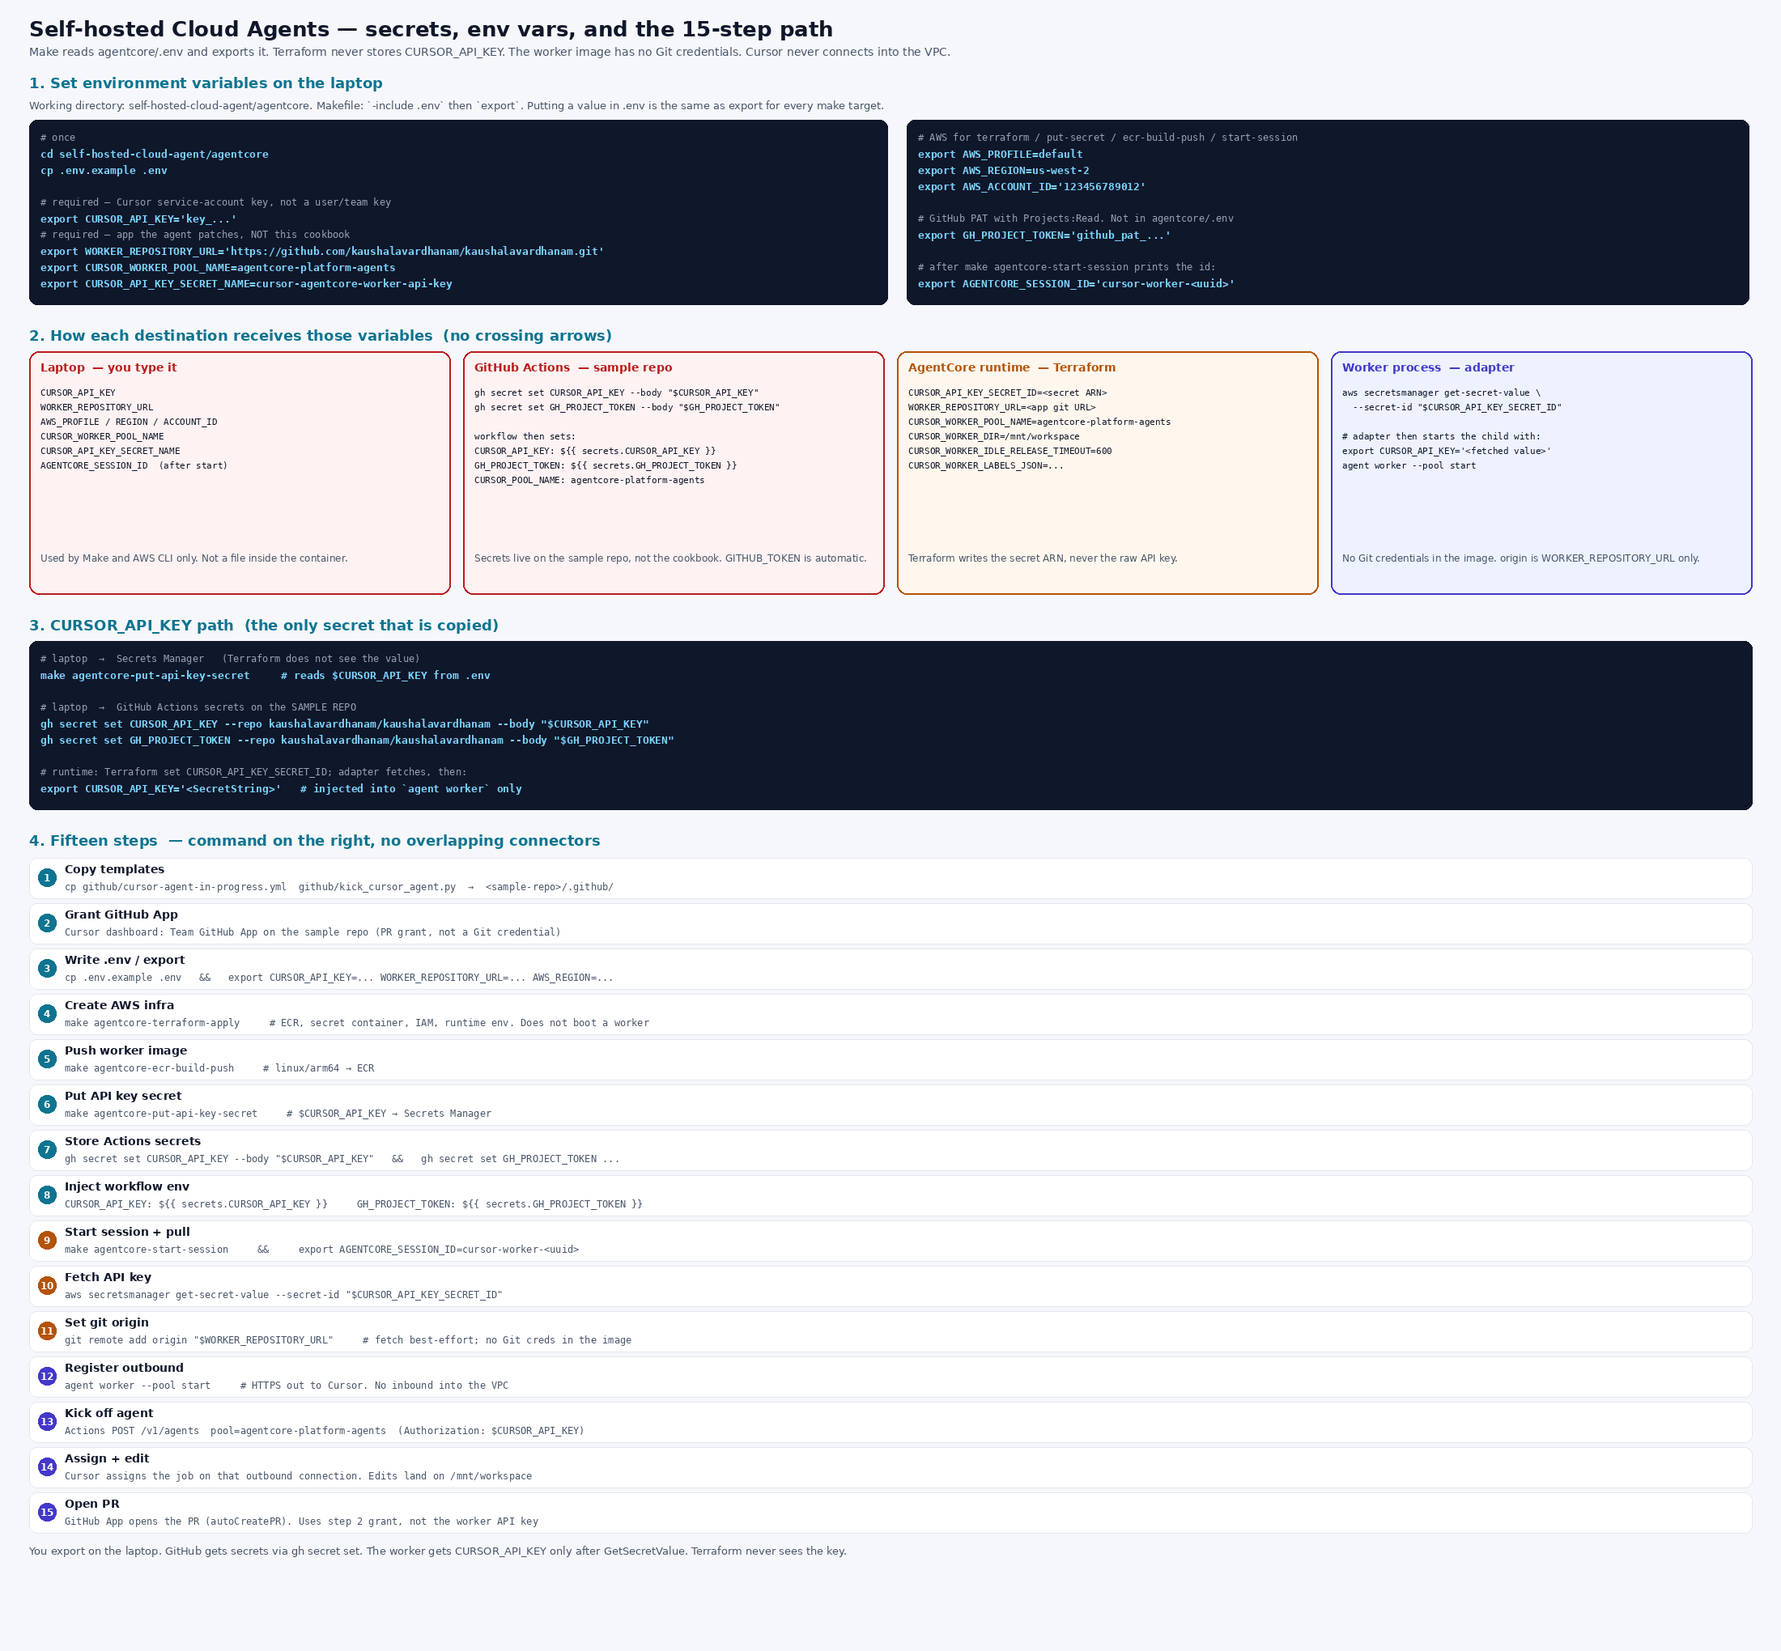
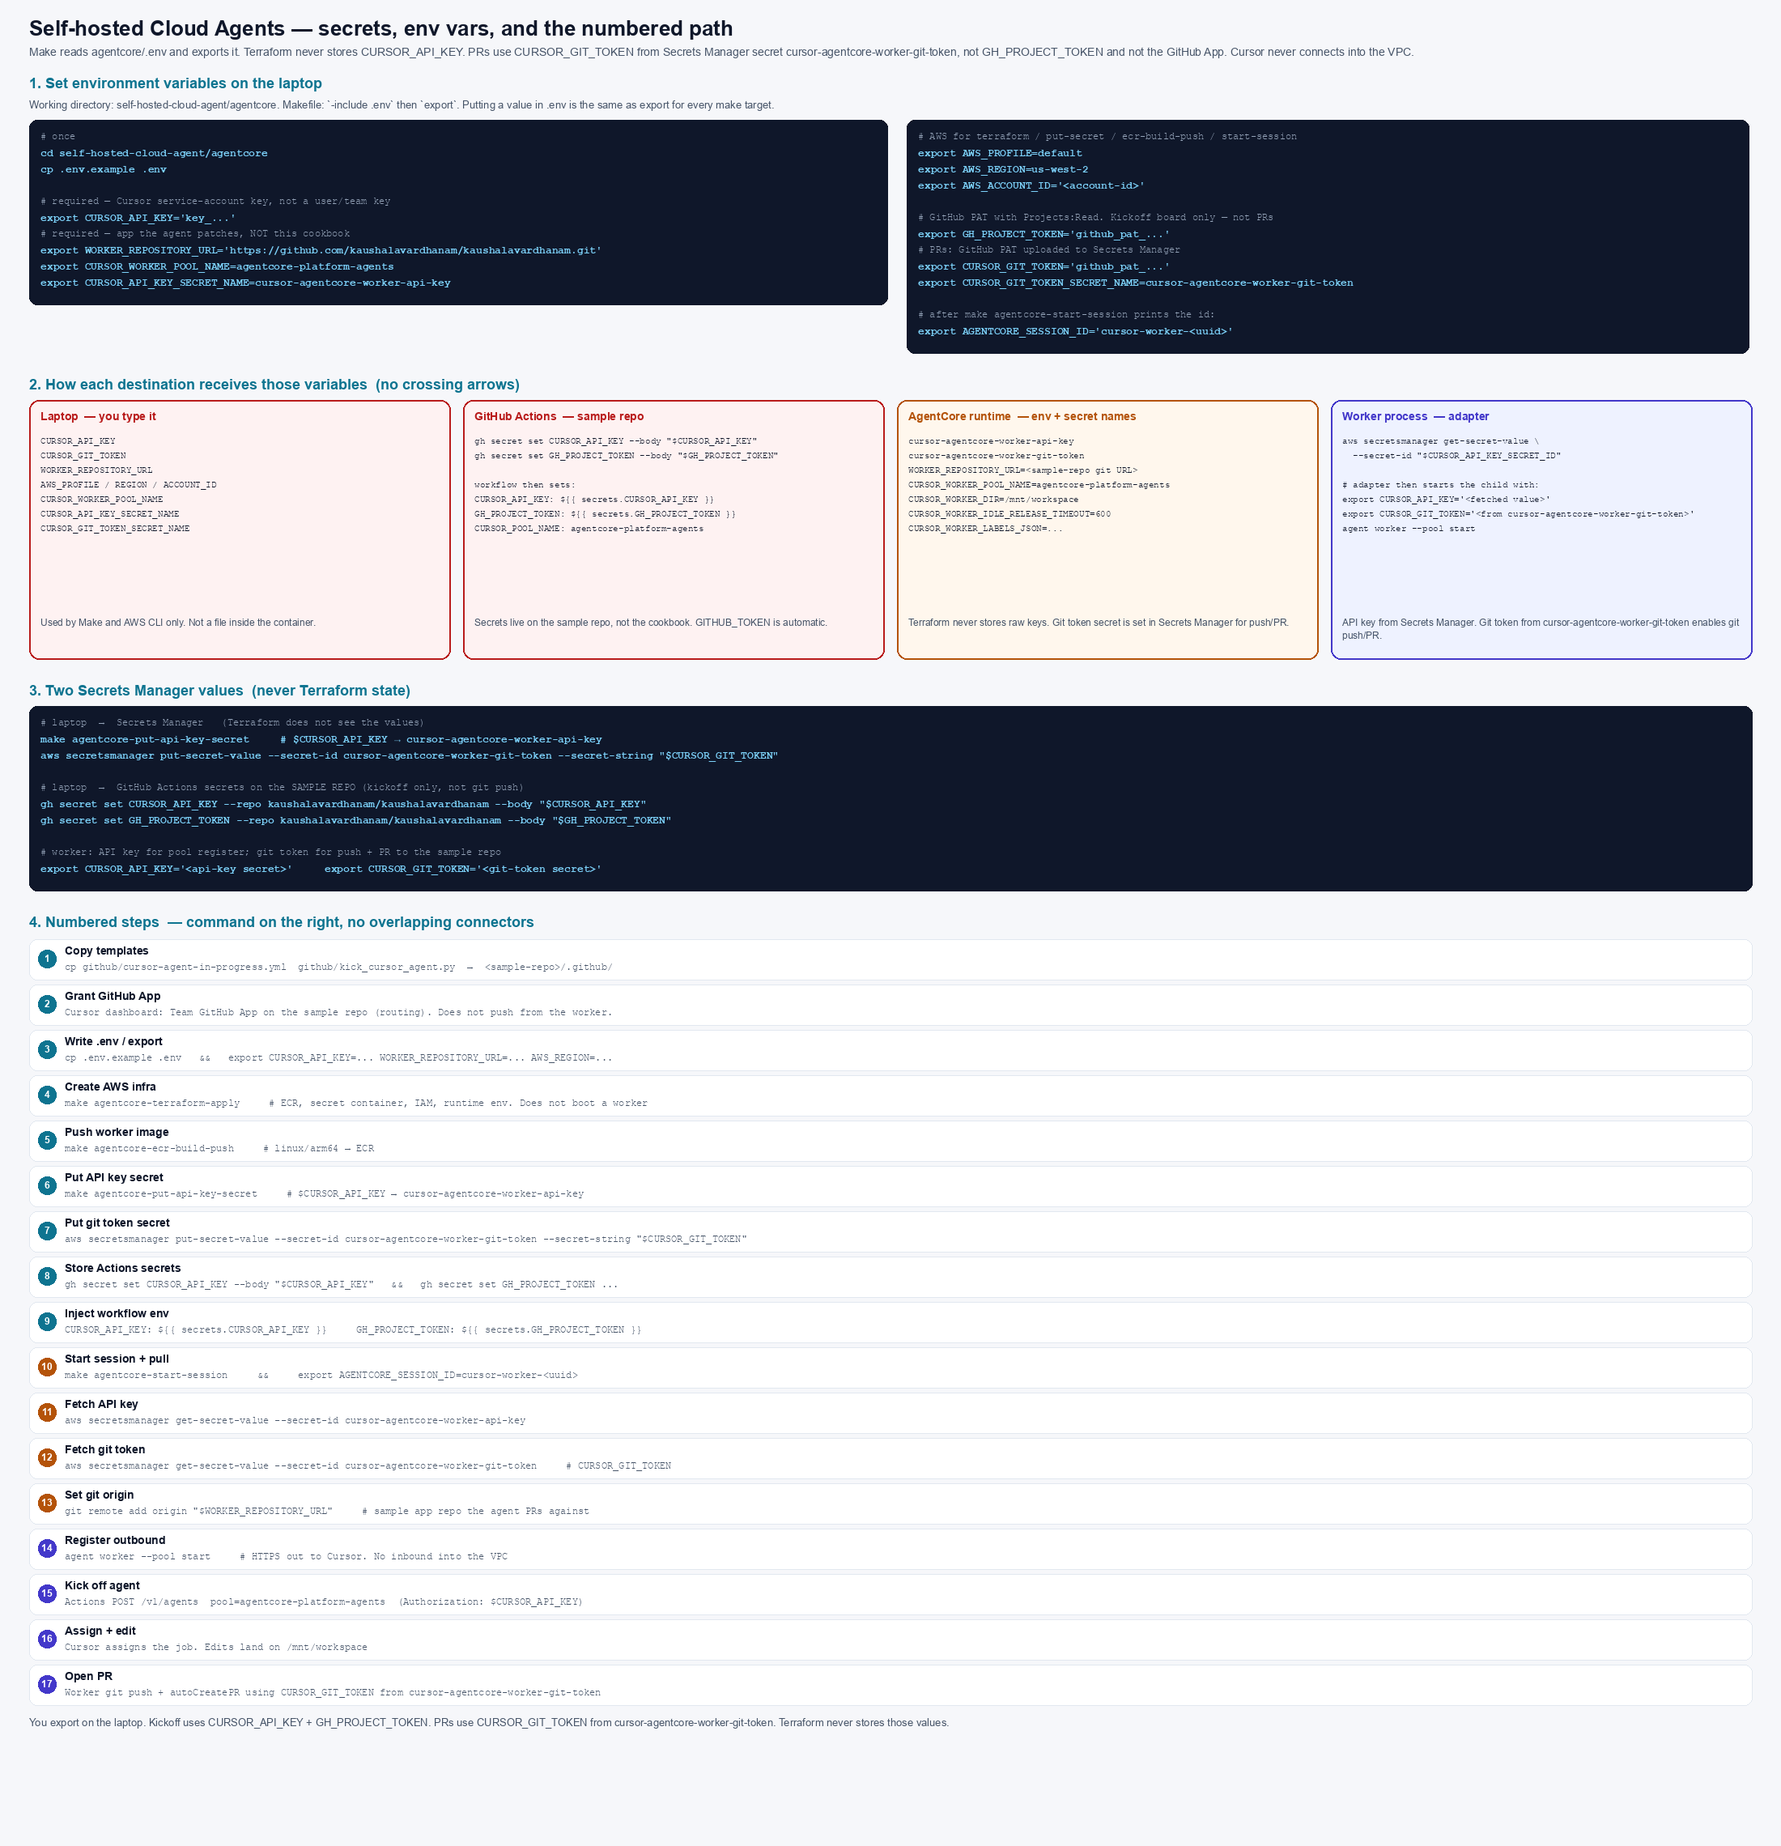
Updated diagrams to include cursor git token

Changed region(s): [[0.0, 0.3397, 0.9891, 0.9574], [0.0, 0.0, 0.9891, 0.3088]]

diff --git a/self-hosted-cloud-agent/agentcore/diagrams/render_secrets_and_flow.py b/self-hosted-cloud-agent/agentcore/diagrams/render_secrets_and_flow.py
@@ -8,7 +8,7 @@ from pathlib import Path
 from PIL import Image, ImageDraw, ImageFont
 
 OUT = Path(__file__).with_name("secrets-and-flow.png")
-W, H = 2200, 2040
+W, H = 2200, 2280
 BG = (246, 247, 250)
 INK = (15, 23, 42)
 MUTED = (71, 85, 105)
@@ -25,6 +25,11 @@ FONT = "/usr/share/fonts/truetype/dejavu/DejaVuSans.ttf"
 FONT_B = "/usr/share/fonts/truetype/dejavu/DejaVuSans-Bold.ttf"
 MONO = "/usr/share/fonts/truetype/dejavu/DejaVuSansMono.ttf"
 MONO_B = "/usr/share/fonts/truetype/dejavu/DejaVuSansMono-Bold.ttf"
+if not Path(FONT).exists():
+    FONT = "/System/Library/Fonts/Supplemental/Arial.ttf"
+    FONT_B = "/System/Library/Fonts/Supplemental/Arial Bold.ttf"
+    MONO = "/System/Library/Fonts/Supplemental/Courier New.ttf"
+    MONO_B = "/System/Library/Fonts/Supplemental/Courier New Bold.ttf"
 M = 36
 
 
@@ -88,10 +93,10 @@ def main() -> None:
     img = Image.new("RGB", (W, H), BG)
     d = ImageDraw.Draw(img)
 
-    d.text((M, 20), "Self-hosted Cloud Agents — secrets, env vars, and the 15-step path", font=fnt(26, True), fill=INK)
+    d.text((M, 20), "Self-hosted Cloud Agents — secrets, env vars, and the numbered path", font=fnt(26, True), fill=INK)
     d.text(
         (M, 56),
-        "Make reads agentcore/.env and exports it. Terraform never stores CURSOR_API_KEY. The worker image has no Git credentials. Cursor never connects into the VPC.",
+        "Make reads agentcore/.env and exports it. Terraform never stores CURSOR_API_KEY. PRs use CURSOR_GIT_TOKEN from Secrets Manager secret cursor-agentcore-worker-git-token, not GH_PROJECT_TOKEN and not the GitHub App. Cursor never connects into the VPC.",
         font=fnt(14),
         fill=MUTED,
     )
@@ -135,10 +140,13 @@ def main() -> None:
             ("cmt", "# AWS for terraform / put-secret / ecr-build-push / start-session"),
             ("cmd", "export AWS_PROFILE=default"),
             ("cmd", "export AWS_REGION=us-west-2"),
-            ("cmd", "export AWS_ACCOUNT_ID='123456789012'"),
+            ("cmd", "export AWS_ACCOUNT_ID='<account-id>'"),
             ("blank", ""),
-            ("cmt", "# GitHub PAT with Projects:Read. Not in agentcore/.env"),
+            ("cmt", "# GitHub PAT with Projects:Read. Kickoff board only — not PRs"),
             ("cmd", "export GH_PROJECT_TOKEN='github_pat_...'"),
+            ("cmt", "# PRs: GitHub PAT uploaded to Secrets Manager"),
+            ("cmd", "export CURSOR_GIT_TOKEN='github_pat_...'"),
+            ("cmd", "export CURSOR_GIT_TOKEN_SECRET_NAME=cursor-agentcore-worker-git-token"),
             ("blank", ""),
             ("cmt", "# after make agentcore-start-session prints the id:"),
             ("cmd", "export AGENTCORE_SESSION_ID='cursor-worker-<uuid>'"),
@@ -156,11 +164,12 @@ def main() -> None:
             "Laptop  — you type it",
             [
                 "CURSOR_API_KEY",
+                "CURSOR_GIT_TOKEN",
                 "WORKER_REPOSITORY_URL",
                 "AWS_PROFILE / REGION / ACCOUNT_ID",
                 "CURSOR_WORKER_POOL_NAME",
                 "CURSOR_API_KEY_SECRET_NAME",
-                "AGENTCORE_SESSION_ID  (after start)",
+                "CURSOR_GIT_TOKEN_SECRET_NAME",
             ],
             "Used by Make and AWS CLI only. Not a file inside the container.",
         ),
@@ -182,16 +191,17 @@ def main() -> None:
         (
             (255, 247, 237),
             AMBER,
-            "AgentCore runtime  — Terraform",
+            "AgentCore runtime  — env + secret names",
             [
-                "CURSOR_API_KEY_SECRET_ID=<secret ARN>",
+                "cursor-agentcore-worker-api-key",
+                "cursor-agentcore-worker-git-token",
                 "WORKER_REPOSITORY_URL=<sample-repo git URL>",
                 "CURSOR_WORKER_POOL_NAME=agentcore-platform-agents",
                 "CURSOR_WORKER_DIR=/mnt/workspace",
                 "CURSOR_WORKER_IDLE_RELEASE_TIMEOUT=600",
                 "CURSOR_WORKER_LABELS_JSON=...",
             ],
-            "Terraform writes the secret ARN, never the raw API key.",
+            "Terraform never stores raw keys. Git token secret is set in Secrets Manager for push/PR.",
         ),
         (
             (238, 242, 255),
@@ -203,14 +213,15 @@ def main() -> None:
                 "",
                 "# adapter then starts the child with:",
                 "export CURSOR_API_KEY='<fetched value>'",
+                "export CURSOR_GIT_TOKEN='<from cursor-agentcore-worker-git-token>'",
                 "agent worker --pool start",
             ],
-            "No Git credentials in the image. origin is WORKER_REPOSITORY_URL only.",
+            "API key from Secrets Manager. Git token from cursor-agentcore-worker-git-token enables git push/PR.",
         ),
     ]
     cg = 16
     card_w = (W - 2 * M - 3 * cg) / 4
-    card_h = 300
+    card_h = 320
     for i, (fill, stroke, title, lines, foot) in enumerate(cards):
         x = M + i * (card_w + cg)
         rr(d, (x, y, x + card_w, y + card_h), fill, stroke, width=2, radius=12)
@@ -225,40 +236,43 @@ def main() -> None:
             fy += 16
     y += card_h + 28
 
-    heading(d, M, y, "3. CURSOR_API_KEY path  (the only secret that is copied)")
+    heading(d, M, y, "3. Two Secrets Manager values  (never Terraform state)")
     y += 30
     key_lines = [
-        ("cmt", "# laptop  →  Secrets Manager   (Terraform does not see the value)"),
-        ("cmd", "make agentcore-put-api-key-secret     # reads $CURSOR_API_KEY from .env"),
+        ("cmt", "# laptop  →  Secrets Manager   (Terraform does not see the values)"),
+        ("cmd", "make agentcore-put-api-key-secret     # $CURSOR_API_KEY → cursor-agentcore-worker-api-key"),
+        ("cmd", "aws secretsmanager put-secret-value --secret-id cursor-agentcore-worker-git-token --secret-string \"$CURSOR_GIT_TOKEN\""),
         ("blank", ""),
-        ("cmt", "# laptop  →  GitHub Actions secrets on the SAMPLE REPO"),
+        ("cmt", "# laptop  →  GitHub Actions secrets on the SAMPLE REPO (kickoff only, not git push)"),
         ("cmd", "gh secret set CURSOR_API_KEY --repo kaushalavardhanam/kaushalavardhanam --body \"$CURSOR_API_KEY\""),
         ("cmd", "gh secret set GH_PROJECT_TOKEN --repo kaushalavardhanam/kaushalavardhanam --body \"$GH_PROJECT_TOKEN\""),
         ("blank", ""),
-        ("cmt", "# runtime: Terraform set CURSOR_API_KEY_SECRET_ID; adapter fetches, then:"),
-        ("cmd", "export CURSOR_API_KEY='<SecretString>'   # injected into `agent worker` only"),
+        ("cmt", "# worker: API key for pool register; git token for push + PR to the sample repo"),
+        ("cmd", "export CURSOR_API_KEY='<api-key secret>'     export CURSOR_GIT_TOKEN='<git-token secret>'"),
     ]
     y += code_block(d, M, y, W - 2 * M, key_lines) + 28
 
-    heading(d, M, y, "4. Fifteen steps  — command on the right, no overlapping connectors")
+    heading(d, M, y, "4. Numbered steps  — command on the right, no overlapping connectors")
     y += 32
 
     steps = [
         (TEAL, "Copy templates", "cp github/cursor-agent-in-progress.yml  github/kick_cursor_agent.py  →  <sample-repo>/.github/"),
-        (TEAL, "Grant GitHub App", "Cursor dashboard: Team GitHub App on the sample repo (PR grant, not a Git credential)"),
+        (TEAL, "Grant GitHub App", "Cursor dashboard: Team GitHub App on the sample repo (routing). Does not push from the worker."),
         (TEAL, "Write .env / export", "cp .env.example .env   &&   export CURSOR_API_KEY=... WORKER_REPOSITORY_URL=... AWS_REGION=..."),
         (TEAL, "Create AWS infra", "make agentcore-terraform-apply     # ECR, secret container, IAM, runtime env. Does not boot a worker"),
         (TEAL, "Push worker image", "make agentcore-ecr-build-push     # linux/arm64 → ECR"),
-        (TEAL, "Put API key secret", "make agentcore-put-api-key-secret     # $CURSOR_API_KEY → Secrets Manager"),
+        (TEAL, "Put API key secret", "make agentcore-put-api-key-secret     # $CURSOR_API_KEY → cursor-agentcore-worker-api-key"),
+        (TEAL, "Put git token secret", "aws secretsmanager put-secret-value --secret-id cursor-agentcore-worker-git-token --secret-string \"$CURSOR_GIT_TOKEN\""),
         (TEAL, "Store Actions secrets", "gh secret set CURSOR_API_KEY --body \"$CURSOR_API_KEY\"   &&   gh secret set GH_PROJECT_TOKEN ..."),
         (TEAL, "Inject workflow env", "CURSOR_API_KEY: ${{ secrets.CURSOR_API_KEY }}     GH_PROJECT_TOKEN: ${{ secrets.GH_PROJECT_TOKEN }}"),
         (AMBER, "Start session + pull", "make agentcore-start-session     &&     export AGENTCORE_SESSION_ID=cursor-worker-<uuid>"),
-        (AMBER, "Fetch API key", "aws secretsmanager get-secret-value --secret-id \"$CURSOR_API_KEY_SECRET_ID\""),
-        (AMBER, "Set git origin", "git remote add origin \"$WORKER_REPOSITORY_URL\"     # fetch best-effort; no Git creds in the image"),
+        (AMBER, "Fetch API key", "aws secretsmanager get-secret-value --secret-id cursor-agentcore-worker-api-key"),
+        (AMBER, "Fetch git token", "aws secretsmanager get-secret-value --secret-id cursor-agentcore-worker-git-token     # CURSOR_GIT_TOKEN"),
+        (AMBER, "Set git origin", "git remote add origin \"$WORKER_REPOSITORY_URL\"     # sample app repo the agent PRs against"),
         (INDIGO, "Register outbound", "agent worker --pool start     # HTTPS out to Cursor. No inbound into the VPC"),
         (INDIGO, "Kick off agent", "Actions POST /v1/agents  pool=agentcore-platform-agents  (Authorization: $CURSOR_API_KEY)"),
-        (INDIGO, "Assign + edit", "Cursor assigns the job on that outbound connection. Edits land on /mnt/workspace"),
-        (INDIGO, "Open PR", "GitHub App opens the PR (autoCreatePR). Uses step 2 grant, not the worker API key"),
+        (INDIGO, "Assign + edit", "Cursor assigns the job. Edits land on /mnt/workspace"),
+        (INDIGO, "Open PR", "Worker git push + autoCreatePR using CURSOR_GIT_TOKEN from cursor-agentcore-worker-git-token"),
     ]
 
     row_h = 56
@@ -273,7 +287,7 @@ def main() -> None:
     y += 8
     d.text(
         (M, y),
-        "You export on the laptop. GitHub gets secrets via gh secret set. The worker gets CURSOR_API_KEY only after GetSecretValue. Terraform never sees the key.",
+        "You export on the laptop. Kickoff uses CURSOR_API_KEY + GH_PROJECT_TOKEN. PRs use CURSOR_GIT_TOKEN from cursor-agentcore-worker-git-token. Terraform never stores those values.",
         font=fnt(13),
         fill=MUTED,
     )

diff --git a/self-hosted-cloud-agent/agentcore/diagrams/render_architecture.py b/self-hosted-cloud-agent/agentcore/diagrams/render_architecture.py
@@ -3,14 +3,27 @@
 
 Requires Graphviz and: pip install diagrams
 
-The cookbook does not generate sample-repo files. agentcore/github/ is a static
-template the operator copies by hand:
+Two GitHub repositories:
+  cursor-cookbook  — factory (adapter, image, Terraform, github/ templates)
+  Sample repo      — application the worker clones and pull-requests
+
+Copy, do not generate, the templates:
 
   github/cursor-agent-in-progress.yml  ->  <sample-repo>/.github/workflows/
   github/kick_cursor_agent.py          ->  <sample-repo>/.github/scripts/kick_cursor_agent.py
 
-kaushalavardhanam is the example sample repo used to demonstrate Cloud Agent
-capacity, not a required production app.
+agentcore/.env stays on the cookbook checkout. It is not copied into the sample repo.
+
+Run is the outer operating picture. An AWS rectangle inside Run holds
+Secrets Manager, ECR, and the VPC. Cursor Cloud Agents and GitHub Actions
+stay in Run, outside AWS. The sample repo sits outside Run as the PR target.
+
+Arrow direction is the direction of the request or artifact:
+  secret/image bytes travel toward the managed instance;
+  the worker dials Cursor outbound;
+  Actions POSTs to Cursor;
+  git push uses CURSOR_GIT_TOKEN from the instance;
+  Cursor opens the PR (autoCreatePR / GitHub App) on the sample repo.
 """
 
 from __future__ import annotations
@@ -35,16 +48,19 @@ def main() -> None:
     graph_attr = {
         "fontsize": "14",
         "bgcolor": "white",
-        "pad": "0.55",
+        "pad": "0.65",
         "splines": "spline",
-        "nodesep": "0.85",
-        "ranksep": "1.05",
+        "nodesep": "1.15",
+        "ranksep": "1.35",
         "fontname": "Helvetica",
         "labeljust": "l",
         "compound": "true",
+        "newrank": "true",
     }
     node_attr = {"fontsize": "11", "fontname": "Helvetica"}
     edge_attr = {"fontsize": "10", "fontname": "Helvetica", "color": "#545B64"}
+
+    dashed = {"style": "dashed", "color": "#7B8794"}
 
     with Diagram(
         "Self-hosted Cloud Agents on AgentCore",
@@ -56,41 +72,38 @@ def main() -> None:
         edge_attr=edge_attr,
     ):
         operator = User("Operator")
-
-        with Cluster("Configure"):
-            github = Github("Sample repo")
-
-        with Cluster("Create and export credentials"):
-            secrets = SecretsManager("Secrets Manager")
-            ecr = EC2ContainerRegistry("Amazon ECR")
+        cookbook = Github("cursor-cookbook")
 
         with Cluster("Run"):
-            with Cluster("VPC  (egress only)"):
-                runtime = Bedrock("AgentCore Runtime")
-                instance = EC2("Managed instance")
-                volume = ElasticBlockStoreEBS("EBS /mnt/workspace")
+            with Cluster("AWS"):
+                with Cluster("Credentials"):
+                    secrets = SecretsManager("Secrets Manager")
+                    ecr = EC2ContainerRegistry("Amazon ECR")
+                with Cluster("VPC  (egress only)"):
+                    runtime = Bedrock("AgentCore Runtime")
+                    instance = EC2("Managed instance")
+                    volume = ElasticBlockStoreEBS("EBS /mnt/workspace")
             cursor = InternetAlt1("Cursor Cloud Agents")
             actions = GithubActions("GitHub Actions")
 
-        # Configure
-        operator >> Edge(label="1  copy workflow + .github/scripts") >> github
-        operator >> Edge(label="2  grant GitHub App") >> github
+        sample = Github("Sample repo")
 
-        # Credentials
-        operator >> Edge(label="3  put-secret", style="dashed", color="#7B8794") >> secrets
-        operator >> Edge(label="4  push image", style="dashed", color="#7B8794") >> ecr
-        operator >> Edge(label="5  gh secret set", style="dashed", color="#7B8794") >> github
-
-        # Run
+        operator >> Edge(label="operate from factory") >> cookbook
+        cookbook >> Edge(label="1  copy github/ templates") >> sample
+        operator >> Edge(label="2  grant GitHub App") >> sample
+        operator >> Edge(label="3  put-secret API key + git token", **dashed) >> secrets
+        cookbook >> Edge(label="4  push image", **dashed) >> ecr
+        operator >> Edge(label="5  gh secret set", **dashed) >> sample
         operator >> Edge(label="6  InvokeAgentRuntime") >> runtime
         runtime >> Edge(label="7  start session") >> instance
-        ecr >> Edge(label="8  pull image") >> instance
-        secrets >> Edge(label="9  GetSecretValue") >> instance
+        ecr >> Edge(label="8  image pull") >> instance
+        secrets >> Edge(label="9  secret values") >> instance
         volume >> Edge(label="10  mount workspace") >> instance
-        instance >> Edge(label="11  outbound HTTPS") >> cursor
-        github >> Edge(label="12  workflow") >> actions
+        instance >> Edge(label="11  worker dials Cursor") >> cursor
+        sample >> Edge(label="12  event starts workflow") >> actions
         actions >> Edge(label="13  POST /v1/agents") >> cursor
-        cursor >> Edge(label="14  GitHub App PR") >> github
+        instance >> Edge(label="14  git push (CURSOR_GIT_TOKEN)") >> sample
+        cursor >> Edge(label="15  autoCreatePR") >> sample
 
 
 if __name__ == "__main__":
